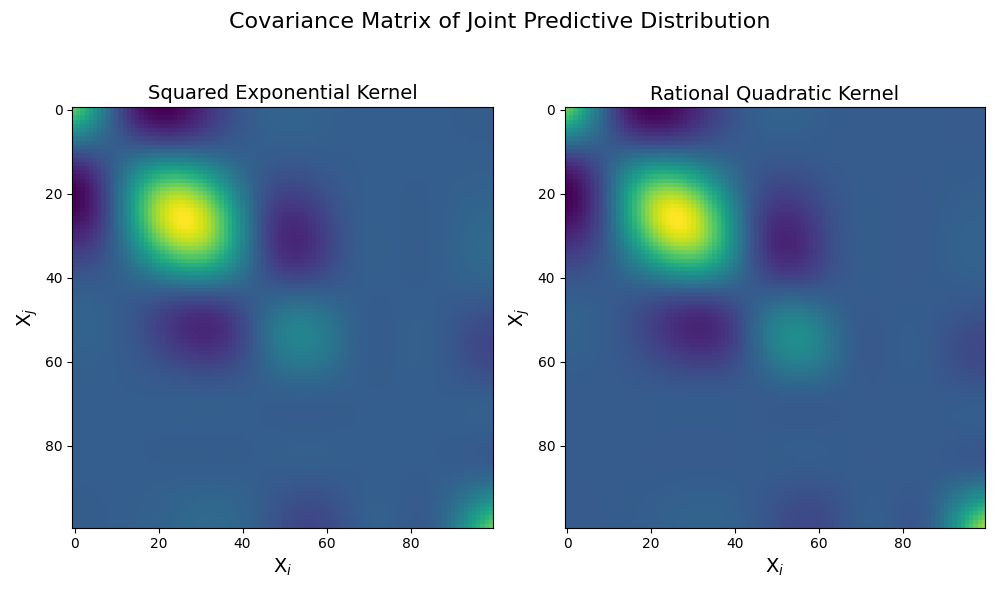
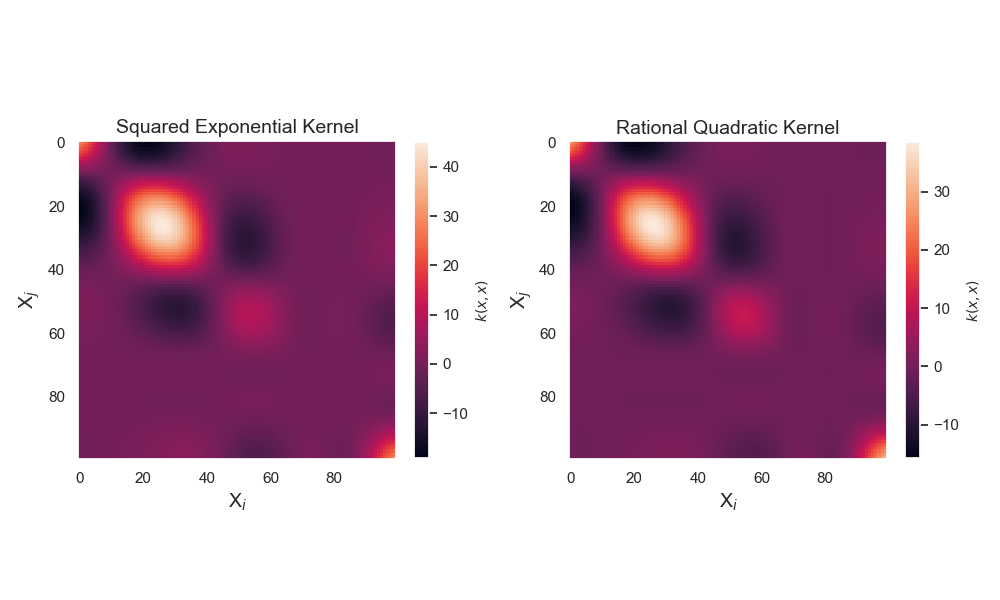
Edited figures for Medium post

diff --git a/GPR/Compare.py b/GPR/Compare.py
@@ -28,7 +28,7 @@ X = np.sort(rng.uniform(0,5,5))[:,np.newaxis]
 y = HiddenFunc(X) + rng.normal(0,0.1,X.shape[0])
 
 # Define squared exponential kernel with set lenght scale and bounds given data
-RBFkernel = 1.0* RBF(length_scale=0.1,length_scale_bounds=(1e-5,1))
+RBFkernel = 1.0*RBF(length_scale=0.1,length_scale_bounds=(1e-5,1))
 RQkernel = 1.0*RQ(length_scale=0.1,length_scale_bounds=(1e-5,1))
 
 # Create a Gaussian Process Regressor for specific kernel
@@ -65,21 +65,28 @@ y_predRQ, covRQ = gp_RQ.predict(X_new,return_cov=True)
 
 # Plot covariance matrix
 fig, ax = plt.subplots(figsize=(10,6),ncols=2)
-fig.suptitle("Covariance Matrix of Joint Predictive Distribution",fontsize=16)
 ax[0].set_title("Squared Exponential Kernel",fontsize=14)
 ax[1].set_title("Rational Quadratic Kernel",fontsize=14)
 ax[0].set_xlabel(r"X$_{i}$",fontsize=14)
 ax[0].set_ylabel(r"X$_{j}$",fontsize=14)
 ax[1].set_xlabel(r"X$_{i}$",fontsize=14)
 ax[1].set_ylabel(r"X$_{j}$",fontsize=14)
-ax[0].imshow(covRBF)
-ax[1].imshow(covRQ)
+im0 = ax[0].imshow(covRBF)
+im1 = ax[1].imshow(covRQ)
+cbar0 = plt.colorbar(
+    im0, ax=ax[0], fraction=0.045, pad=0.05)
+cbar1 = plt.colorbar(
+    im1, ax=ax[1], fraction=0.045, pad=0.05)
+cbar0.ax.set_ylabel('$k(x,x)$', fontsize=10)
+cbar1.ax.set_ylabel('$k(x,x)$', fontsize=10)
+ax[0].grid(False)
+ax[1].grid(False)
 plt.tight_layout()
-#plt.savefig("GPR/Figures/CovMatrix.png")
+plt.savefig("GPR/Figures/CovMatrix.png")
 
 # Plot the results
 fig, ax = plt.subplots(figsize=(8,10),nrows=2)
-fig.suptitle("Samples from Posterior Distribution")
+#fig.suptitle("Samples from Posterior Distribution")
 plot_gpr_samples(gpr_model=gp_RBF, n_samples=4, ax=ax[0])
 plot_gpr_samples(gpr_model=gp_RQ, n_samples=4, ax=ax[1])
 ax[0].scatter(X, y, c='r', zorder=10, label='Observations')
